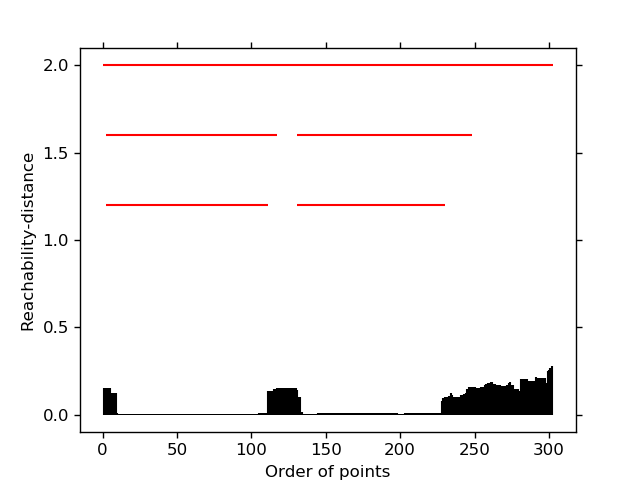
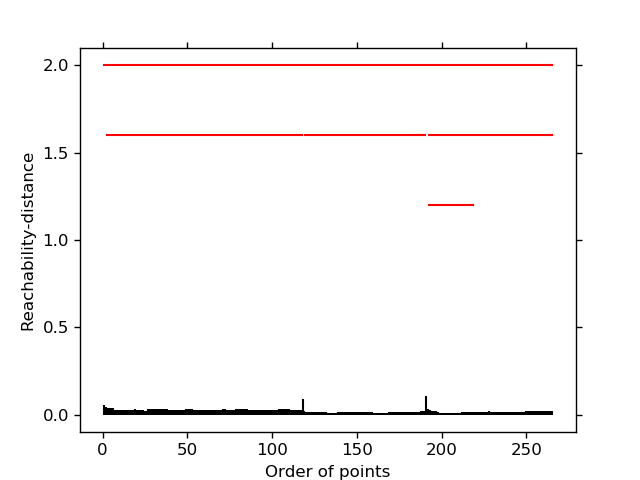
mapped exact reachability value with clusterid and maintain ordering

diff --git a/OPTICS/Python/demo.py b/OPTICS/Python/demo.py
@@ -52,7 +52,7 @@ class Optics():
 
         k = self.__minpts
 
-        points_list = list()
+        points_list = []
         with open(self.__inputfile, 'rb') as f:
             try:
                 file_reader = csv.reader(f, delimiter=',')
@@ -84,15 +84,15 @@ class Optics():
         RD, CD, order = OP.optics(X,k,'euclidean') # hcluster uses euclideon function to calculate distance
         RPlot = []
         RPoints = []
-        R_points_ = []
-
+        R_points_ = [] # Points for the visualizer
+        Rpp = [] # only store raechability values
         for item in order:
             RPlot.append(RD[item]) #Reachability Plot
             # R_points.append([RD[item], 0])
             RPoints.append([X[item][0],X[item][1]]) #points in their order determined by OPTICS
-            R_points_.append([X[item][0],X[item][1],RD[item]])
+            R_points_.append([X[item][0],X[item][1],RD[item]]) # contains points in order they are visited
+            Rpp.append([RD[item],0])
 
-        # print R_points
         #hierarchically cluster the data
         rootNode = AutoC.automaticCluster(RPlot, RPoints, self.__thres)
 
@@ -108,34 +108,52 @@ class Optics():
 
         #get only the leaves of the tree
         leaves = AutoC.getLeaves(rootNode, [])
-
+        # print X[:,0]
         if use_plot:
             #graph the points and the leaf clusters that have been found by OPTICS
             fig = plt.figure()
             ax = fig.add_subplot(111)
-
-            ax.plot(X[:,0], X[:,1], 'y.')
+            ax.plot(X[:,0], X[:,1], 'y.')   # X contains all the points
         colors = cycle('gmkrcbgrcmk')
 
         count = 0
-        clusters_points = list()
-        R_points = list()
+        clusters_points = []
+        cluster_pts = []
+        R_points = []
         for item, c in zip(leaves, colors):
             node = []
-            for v in range(item.start,item.end):
+            for v in range(item.start,item.end): # start and end order value of each cluster
                 node.append(RPoints[v]); #print RPoints[v]
-                clusters_points.append([RPoints[v][0],RPoints[v][1],count])
-                R_points.append([R_points_[v][2],count])
+                clusters_points.append([RPoints[v][0],RPoints[v][1],count]) # cluster points and cluster no.
+                cluster_pts.append([RPoints[v][0],RPoints[v][1]]) # to get the outliers
+                R_points.append([R_points_[v][2],count]) # Reachability points and cluster no.
 
             node = np.array(node)
-
+            # print len(node)
             if use_plot:
                 ax.plot(node[:,0],node[:,1], c+'o', ms=5)  # x and y axis values
             count += 1
+
+        diff_points = []
+        diff_reach = []
+        count += 1
+
+        # To filter out outliers from complete datasets
+        for item in range(len(R_points_)):
+            if R_points_[item][:2] not in cluster_pts:
+                diff_points.append(R_points_[item][:2] + [count-1])
+                diff_reach.append(R_points_[item][2:3] + [count-1])
+            else:
+                # map the reachability values with the points in clusters
+                for ii, row in enumerate(clusters_points):
+                    if[i for i, j in zip(R_points_[item][:2], row[:2]) if i == j]:
+                        diff_points.append(row)
+                        diff_reach.append(R_points[ii])
+                        break
 
         if use_plot:
             plt.savefig('%s/Graph2.png'%curr_file_path, dpi=None, facecolor='w', edgecolor='w', orientation='portrait', papertype=None, format=None,
                 transparent=False, bbox_inches=None, pad_inches=0.1)
             plt.show()
 
-        return (count, clusters_points, R_points)
+        return (count, diff_points, diff_reach)

diff --git a/OPTICS/Python/AutomaticClustering.py b/OPTICS/Python/AutomaticClustering.py
@@ -267,10 +267,12 @@ def getLeaves(node, arr):
 
 def graphTree(root, RPlot):
     import matplotlib.pyplot as plt
+
     fig = plt.figure()
     ax = fig.add_subplot(111)
 
     a1 = [i for i in range(len(RPlot))]
+
     ax.vlines(a1, 0, RPlot)
 
     plt.xlabel('Order of points')

diff --git a/Visualizer/App/runners.py b/Visualizer/App/runners.py
@@ -115,6 +115,5 @@ class OpticsRunner():
         elif 'r' == name.lower():
             return self.run_optics_r()
 
-# obj = OpticsRunner('./Datasets/2.txt',0.4, 7, 0.84)
+# obj = OpticsRunner('./Datasets/2.txt',0.4, 7, 0.75)
 # obj.run('python')
-
